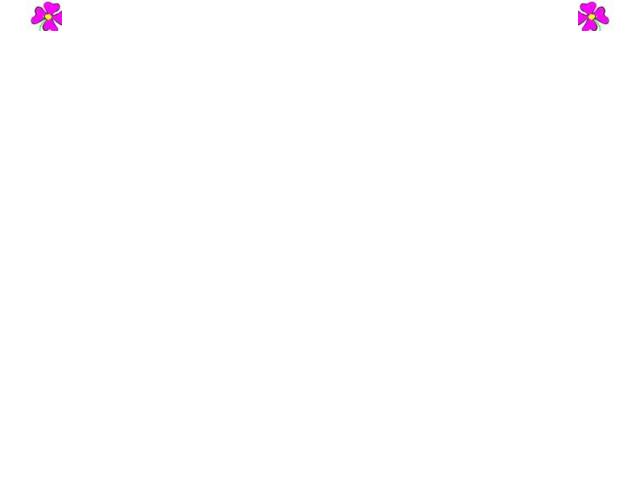
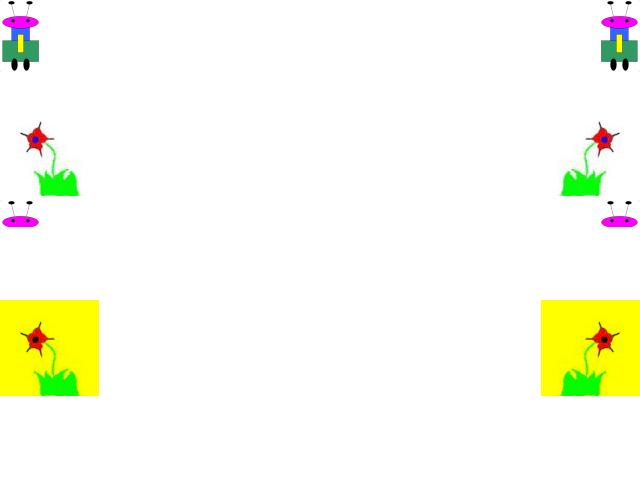
Actually done now

diff --git a/pixLab/Picture.java b/pixLab/Picture.java
@@ -249,14 +249,19 @@ public class Picture extends SimplePicture {
 		}
 	}
 
-	public void copyCustom(Picture fromPic, int startRow, int startCol, int endRow, int endCol) {
+	public void copyCustom(Picture fromPic, int fromStartRow, int fromStartCol, int fromEndRow, int fromEndCol,
+			int toStartRow, int toStartCol)
+
+	{
 		Pixel fromPixel = null;
 		Pixel toPixel = null;
 		Pixel[][] toPixels = this.getPixels2D();
 		Pixel[][] fromPixels = fromPic.getPixels2D();
-		for (int fromRow = 0, toRow = startRow; fromRow < endRow && toRow < toPixels.length; fromRow++, toRow++) {
-			for (int fromCol = 0, toCol = startCol; fromCol < endCol
+		for (int fromRow = fromStartRow, toRow = toStartRow; fromRow <= fromEndRow
+				&& toRow < toPixels.length; fromRow++, toRow++) {
+			for (int fromCol = fromStartCol, toCol = toStartCol; fromCol <= fromEndCol
 					&& toCol < toPixels[0].length; fromCol++, toCol++) {
+
 				fromPixel = fromPixels[fromRow][fromCol];
 				toPixel = toPixels[toRow][toCol];
 				toPixel.setColor(fromPixel.getColor());
@@ -281,16 +286,15 @@ public class Picture extends SimplePicture {
 	}
 
 	public void createCustomCollage() {
-		Picture flower1 = new Picture("images\\flower1.jpg");
+		Picture robot = new Picture("images\\robot.jpg");
 		Picture flower2 = new Picture("images\\flower2.jpg");
-		this.copyCustom(flower1, 0, 0, 31, 62);
-		this.copyCustom(flower2, 100, 0, 0, 0);
-		this.copyCustom(flower1, 200, 0, 0, 0);
+		this.copyCustom(robot, 0, 0, 71, 38, 0, 0);
+		this.copyCustom(flower2, 0, 0, 95, 98, 100, 0);
+		this.copyCustom(robot, 0, 0, 26, 39, 200, 0);
 		Picture flowerNoBlue = new Picture(flower2);
 		flowerNoBlue.zeroBlue();
-		this.copyCustom(flowerNoBlue, 300, 0, 0, 0);
-		this.copyCustom(flower1, 400, 0, 0, 0);
-		this.copyCustom(flower2, 500, 0, 0, 0);
+		this.copyCustom(flowerNoBlue, 0, 0, 95, 98, 300, 0);
+		
 		this.mirrorVertical();
 		this.write("images\\collage.jpg");
 	}
@@ -324,32 +328,21 @@ public class Picture extends SimplePicture {
 	public void edgeDetection2(int edgeDist) {
 		Pixel leftPixel = null;
 		Pixel rightPixel = null;
-		Pixel topPixel = null;
 		Pixel bottomPixel = null;
 		Pixel[][] pixels = this.getPixels2D();
 		Color rightColor = null;
 		Color bottomColor = null;
-		for (int row = 0; row < pixels.length; row++) {
+		for (int row = 0; row < pixels.length - 1; row++) {
 			for (int col = 0; col < pixels[0].length - 1; col++) {
 				leftPixel = pixels[row][col];
 				rightPixel = pixels[row][col + 1];
+				bottomPixel = pixels[row + 1][col];
+				bottomColor = bottomPixel.getColor();
 				rightColor = rightPixel.getColor();
-				if (leftPixel.colorDistance(rightColor) > edgeDist)
+				if (leftPixel.colorDistance(rightColor) > edgeDist || leftPixel.colorDistance(bottomColor) > edgeDist)
 					leftPixel.setColor(Color.BLACK);
 				else
 					leftPixel.setColor(Color.WHITE);
-			}
-		}
-		for (int row = 1; row < pixels.length; row++) {
-			for (int col = 0; col < pixels[0].length; col++) {
-			topPixel = pixels[row][col];
-				bottomPixel = pixels[row - 1][col];
-				bottomColor = bottomPixel.getColor();
-				if (topPixel.colorDistance(bottomColor) > edgeDist) {
-					topPixel.setColor(Color.BLACK);
-				} else {
-					topPixel.setColor(Color.WHITE);
-				}
 			}
 		}
 	}
@@ -358,7 +351,7 @@ public class Picture extends SimplePicture {
 	 * Main method for testing - each class in Java can have a main method
 	 */
 	public static void main(String[] args) {
-		Picture beach = new Picture("images\\swan.jpg");
+		Picture beach = new Picture("images\\flower2.jpg");
 		beach.explore();
 	}
 

diff --git a/pixLab/PictureTester.java b/pixLab/PictureTester.java
@@ -130,11 +130,11 @@ public class PictureTester {
 		// testMirrorGull();
 		// testMirrorDiagonal();
 		// testCollage();
-		// testCustomCollage();
+		 testCustomCollage();
 		// testCopy();
-		// testCopyCustom();
-		// testEdgeDetection();
-		testEdgeDetection2();
+		//testCopyCustom();
+		//testEdgeDetection();
+		//testEdgeDetection2();
 		// testChromakey();
 		// testEncodeAndDecode();
 		// testGetCountRedOverValue(250);
